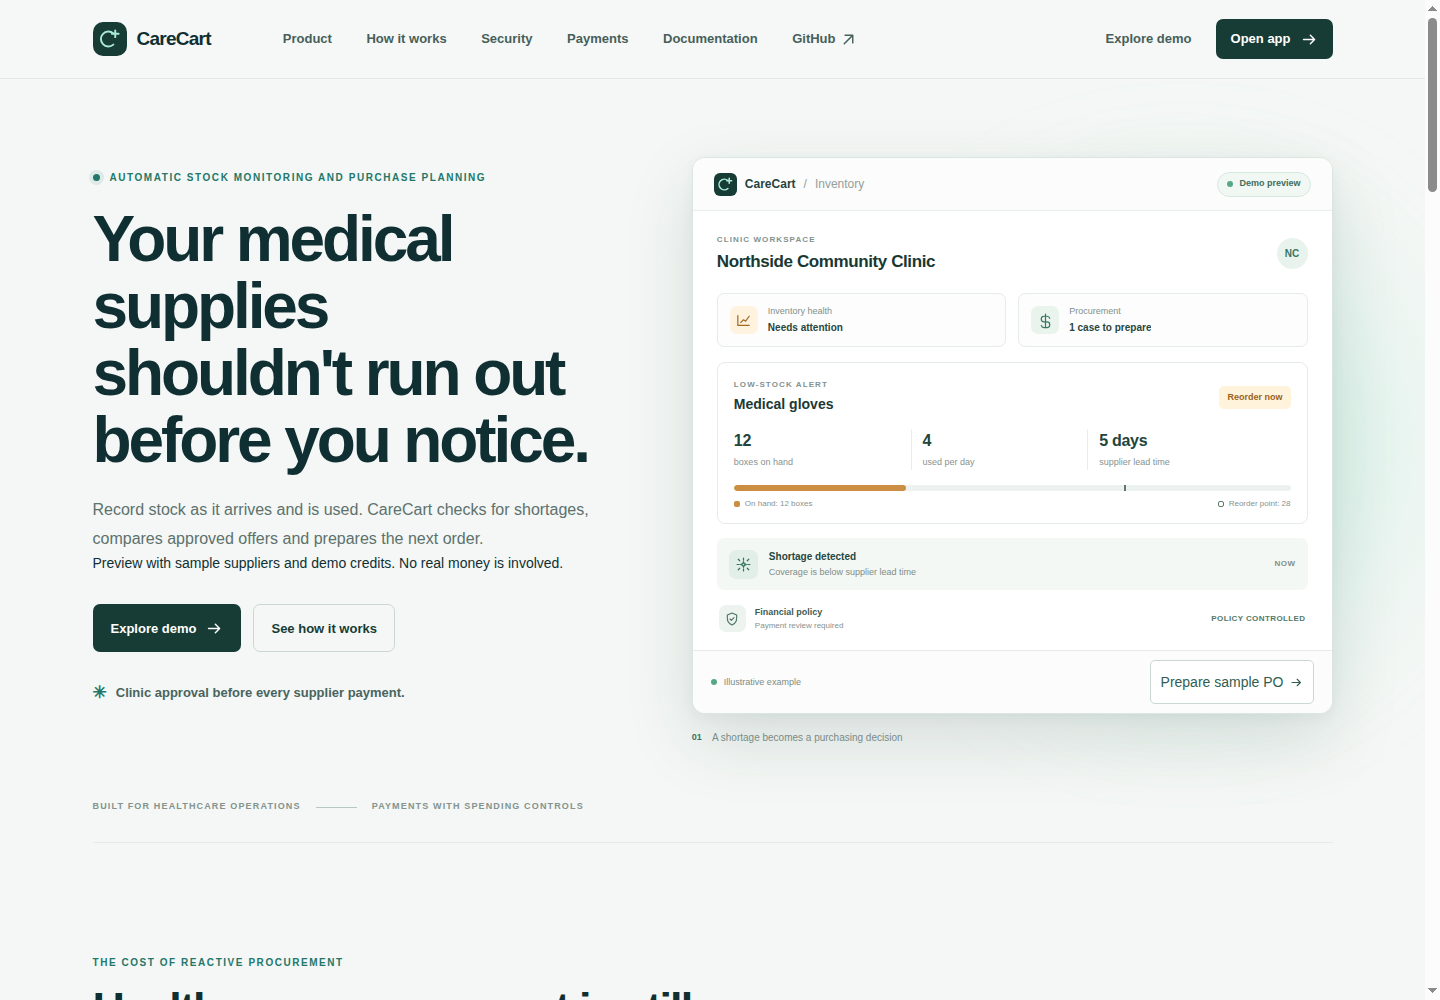
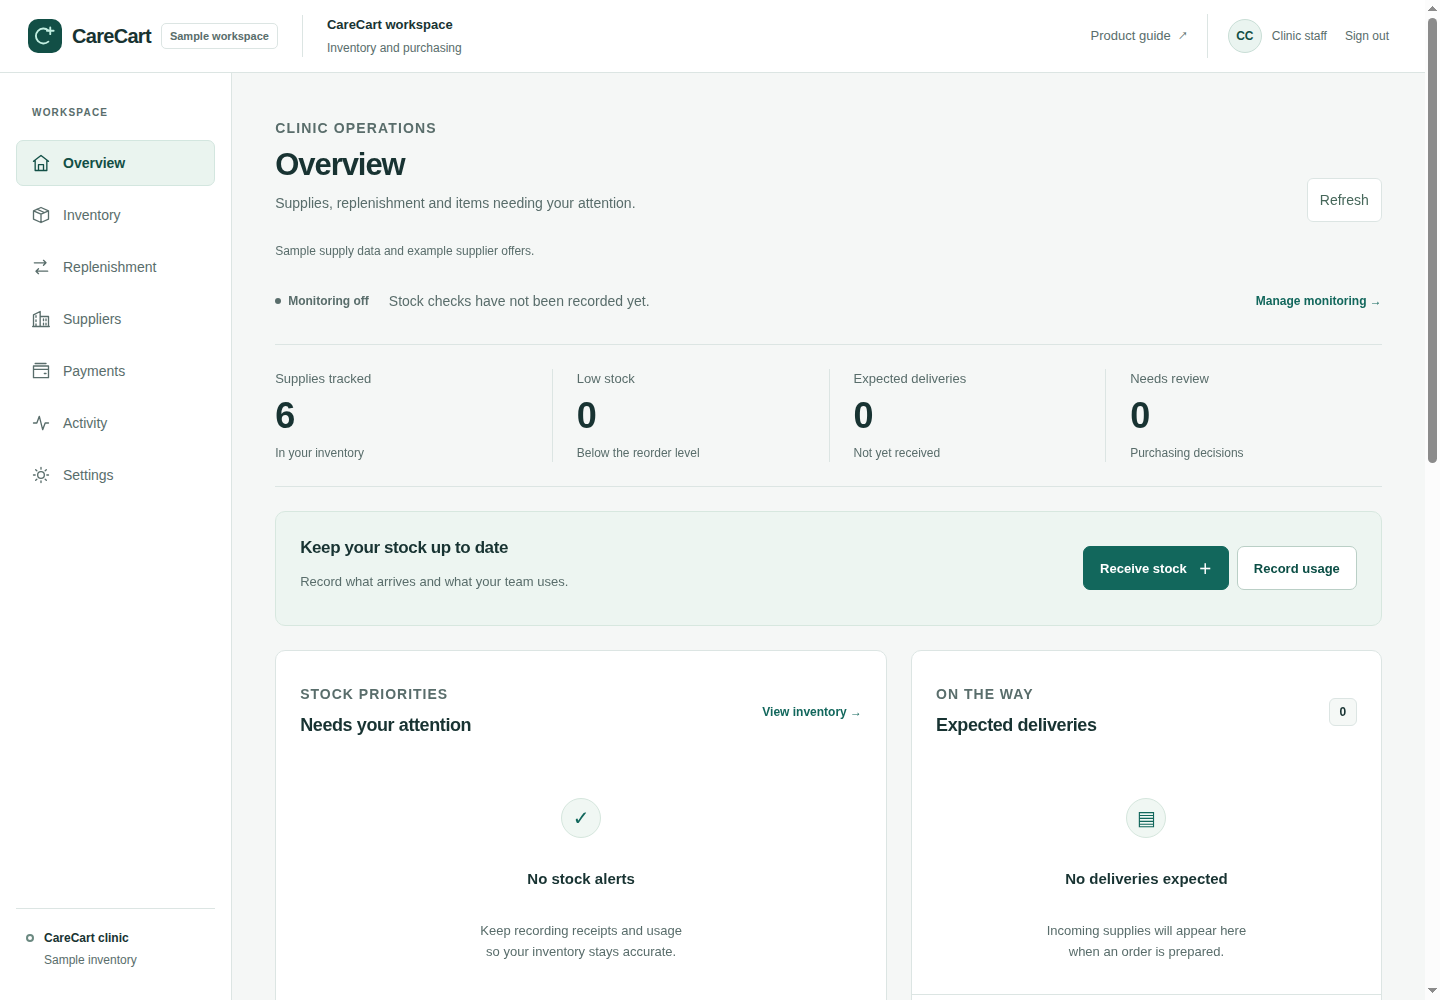
docs: show the redesigned clinic workspace in README screenshots

diff --git a/README.md b/README.md
@@ -2,9 +2,9 @@
 
 CareCart helps clinics keep reliable supply records and replenish essential items. Staff record stock received, consumed, dispensed or adjusted. A background monitor detects shortages, compares approved supplier offers and prepares a canonical purchase order. A deterministic financial policy can authorize eligible testnet purchases for separate restricted payment workers.
 
-![CareCart product preview showing a clinic workspace, low-stock glove alert, supplier lead time and purchasing controls.](web/public/screenshots/carecart-product-preview.png)
+![CareCart clinic overview showing stock counts, expected deliveries, monitoring status and quick inventory actions.](web/public/screenshots/carecart-product-preview.png)
 
-*Product overview with synthetic clinic data. [Explore CareCart](https://carecart.xyz) · [Read the product guides](https://carecart.xyz/docs) · [View the verified 1.5 CCUSD test payment](https://testnet.nearblocks.io/txns/EsrPBQ9h7AZvASMBLkTDE1TZd1aMwvUF8HtyxfqrmbD).*
+*Clinic overview with synthetic inventory and example supplier offers. [Explore CareCart](https://carecart.xyz) · [Read the product guides](https://carecart.xyz/docs) · [View the verified 1.5 CCUSD test payment](https://testnet.nearblocks.io/txns/EsrPBQ9h7AZvASMBLkTDE1TZd1aMwvUF8HtyxfqrmbD).*
 
 CareCart manages inventory and procurement records; it does not make clinical decisions or provide medical advice.
 
@@ -52,9 +52,9 @@ flowchart LR
 
 The inventory worker is key-free and prepares replenishment work. A separate internal evaluator can issue operation-specific authorizations from a clinic standing policy. Separate restricted payment services consume those authorizations; the safety vault checks the saved order, approved supplier, payment limits and pause state. A recorded transaction submission is not treated as payment success until the configured observer verifies it. Staff record physical delivery separately from payment.
 
-![CareCart stock-receiving workflow with item, quantity, supplier, lot and delivery-reference fields, followed by updated stock levels.](web/public/screenshots/carecart-stock-receiving.png)
+![CareCart inventory table and stock-receiving side panel with item, quantity, supplier, lot and delivery-reference fields.](web/public/screenshots/carecart-stock-receiving.png)
 
-*Working inventory screen captured during the local browser walkthrough. Sample stock is updated after receiving goods; this isolated demo does not send payments.*
+*Stock-receiving side panel captured during the local browser walkthrough. Physical deliveries are recorded separately from payments; this isolated demo does not send payments.*
 
 ## Repository layout
 
